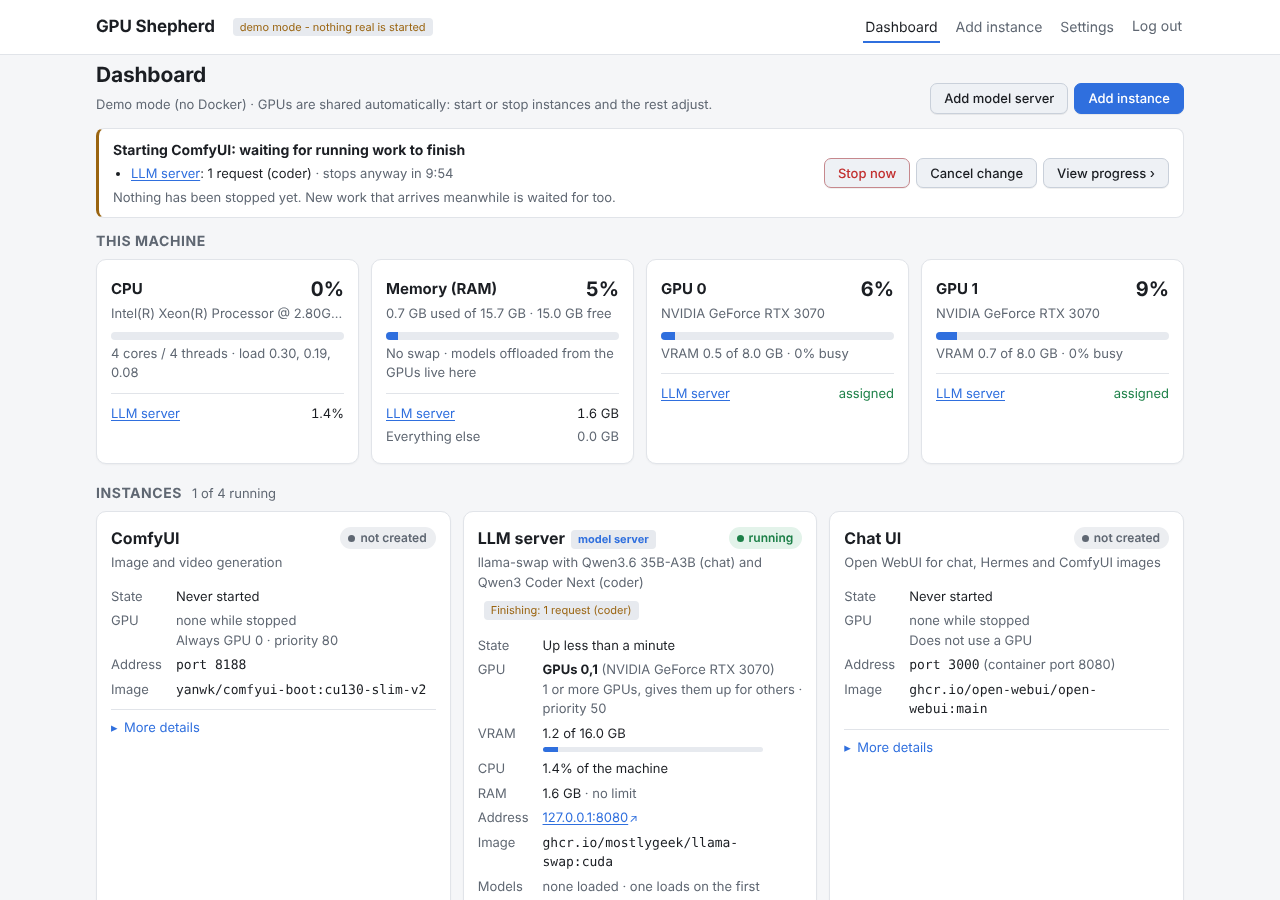
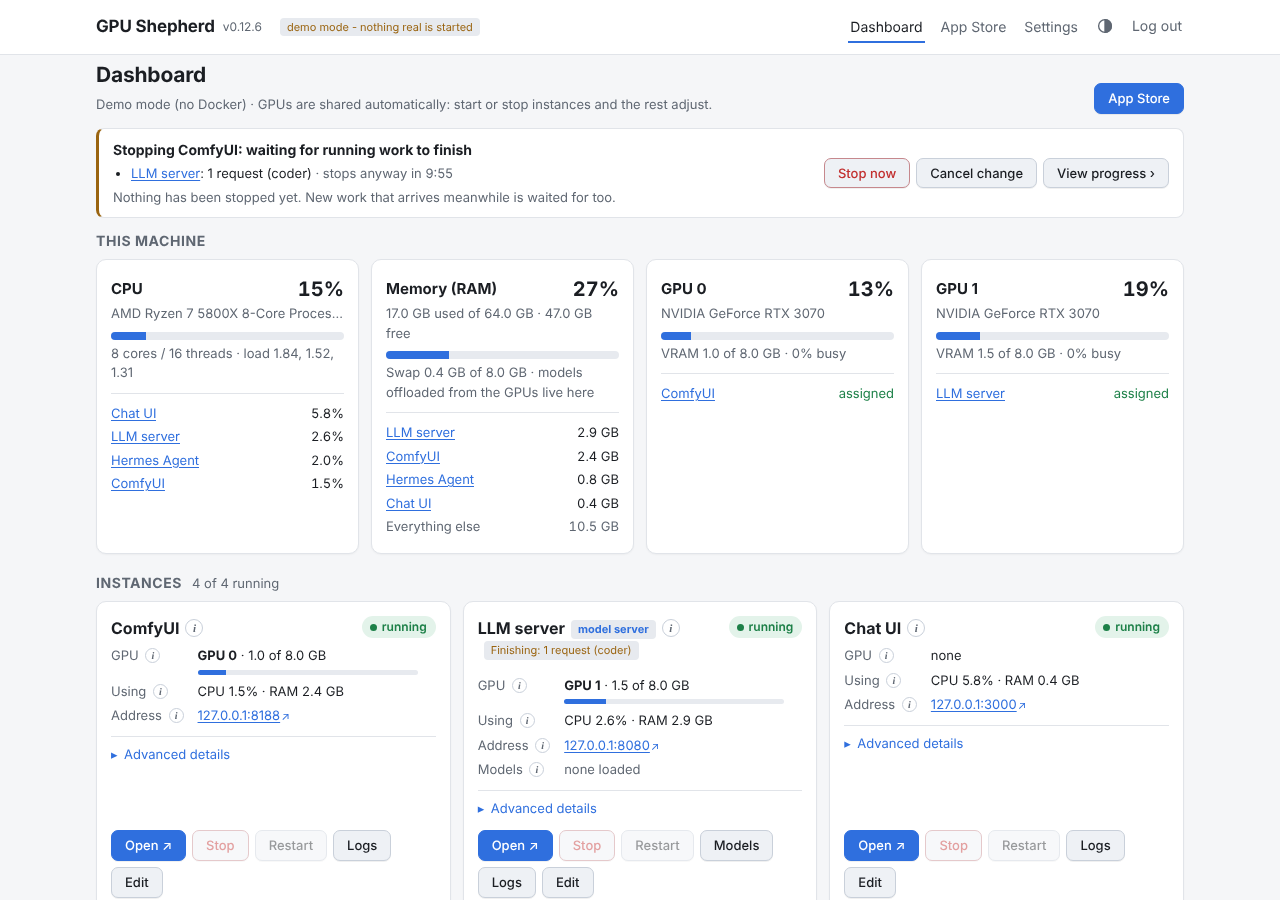
Retake the screenshots and add a dark theme one
Claude-Session: https://claude.ai/code/session_01JmDqfEzmcWoi8cNsoKGoLT

diff --git a/gpushepherd/static/app.css b/gpushepherd/static/app.css
@@ -152,11 +152,7 @@ dialog::backdrop{background:rgba(0,0,0,.45)}
 .toast.error{background:var(--bad);color:#fff}.toast.warn{background:var(--warn);color:#fff}
 .login{max-width:380px;margin:9vh auto 0}
 .changes{margin:0 0 12px;padding-left:18px;font-size:13px;max-height:280px;overflow:auto}.changes li{margin:2px 0}
-/* templates and guided setup */
-a.card.template{display:flex;flex-direction:column;gap:6px;color:var(--fg);text-decoration:none;transition:border-color .12s,box-shadow .12s}
-main a.card.template:hover{border-color:var(--accent);box-shadow:0 0 0 3px var(--hl);color:var(--fg);text-decoration:none}
-a.card.template .btn{margin-top:auto;align-self:flex-start}
-a.card.template .sub{margin:0}
+/* App Store install forms */
 .points{margin:0 0 4px;padding-left:18px;font-size:13px}
 form.guided{counter-reset:step}
 .step::before{counter-increment:step;content:counter(step)}

diff --git a/README.md b/README.md
@@ -52,6 +52,9 @@ each instance says what it needs, and starting or stopping anything re-plans who
   models larger than your GPUs still run, set per GPU count.
 
   ![Models](docs/screenshots/models.png)
+- **Light or dark**: follows your device, or pick Light or Dark with the theme button at the top.
+
+  ![Dark theme](docs/screenshots/dashboard-dark.png)
 - **Plain files**: everything is saved as readable YAML - easy to back up, diff, or keep in git.
 - **Updates in place**: `update.sh` or a dashboard button, with automatic rollback if an update fails.
 - **Small**: one Python process, server-rendered pages with htmx, no JavaScript build step.
